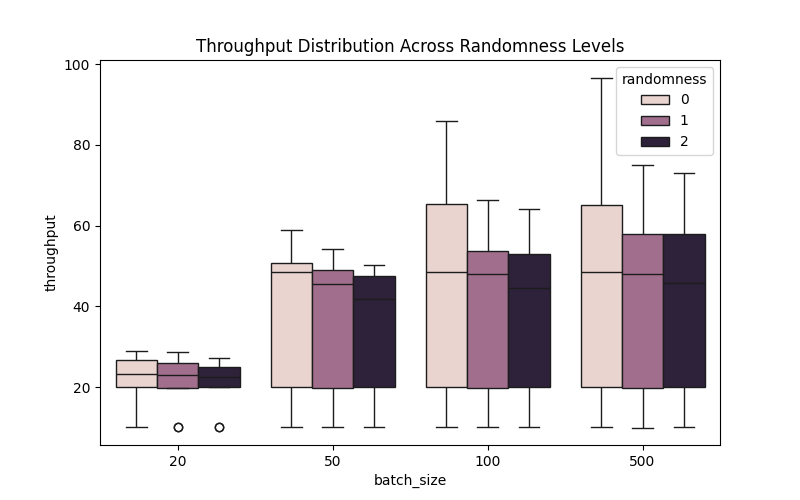
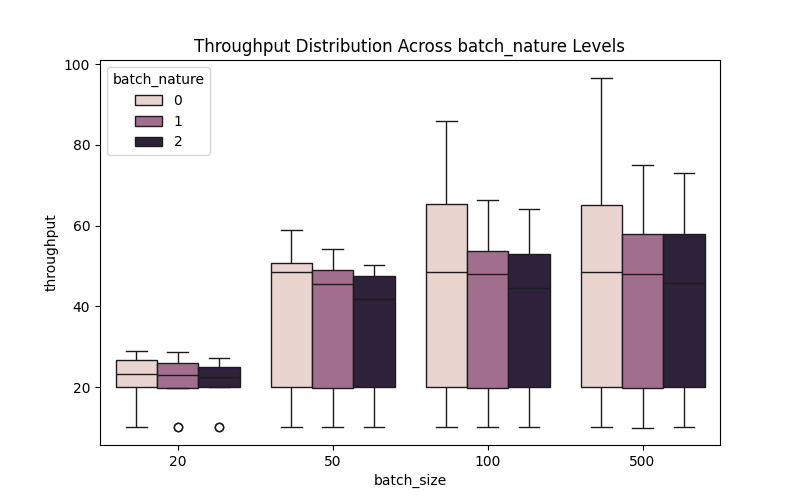
changes

Changed region(s): [[0.25, 0.06, 0.7812, 0.12], [0.7812, 0.15, 0.9062, 0.3], [0.125, 0.15, 0.25, 0.3]]

diff --git a/code/vllm/try.py b/code/vllm/try.py
@@ -23,7 +23,7 @@ for (key, value) in tuple_to_throughput.items():
         "families": families,
         "req_per_sec": req,
         "batch_size": batch,
-        "randomness": rand,
+        "batch_nature": rand,
         "throughput": value
     })
 
@@ -36,7 +36,7 @@ import numpy as np
 # ---------- PLOT: Separate for each number of families ----------
 for families, df_fam in df.groupby("families"):
     plt.figure(figsize=(15, 10))
-    groups = list(df_fam.groupby(["batch_size", "randomness"]))
+    groups = list(df_fam.groupby(["batch_size", "batch_nature"]))
     colors = cm.get_cmap('tab20', len(groups))  # or try 'husl', 'viridis', etc.
 
     for idx, ((batch, rand), group) in enumerate(groups):
@@ -67,7 +67,7 @@ for families, df_fam in df.groupby("families"):
 
 
 plt.figure(figsize=(8,5))
-sns.boxplot(data=df, x="batch_size", y="throughput", hue="randomness")
-plt.title("Throughput Distribution Across Randomness Levels")
+sns.boxplot(data=df, x="batch_size", y="throughput", hue="batch_nature")
+plt.title("Throughput Distribution Across batch_nature Levels")
 plt.show()
 plt.savefig("../../results/throughput_boxplot_batch_size_randomness.png")
